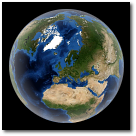
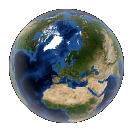
change Theme  map

diff --git a/layerComponent/LayerMap.qml b/layerComponent/LayerMap.qml
@@ -1,8 +1,14 @@
 import QtQuick 2.15
 
 Item {
+	id:_root
 	width: 400
 	height: 100
+	signal itemClicked(string source);
+
+
+
+	property int  selectedIndex : 0
 
 	ListModel {
 		id:_model
@@ -12,15 +18,15 @@ Item {
 		}
 		ListElement {
 			pathimage: "../icons/mapLayer/bluemarble-preview.png"
-			source: "earth/openstreetmap/blumarble.dgml"
+			source: "earth/bluemarble/bluemarble.dgml"
 		}
 		ListElement {
 			pathimage: "../icons/mapLayer/precip-dec-preview.png"
-			source: "earth/openstreetmap/precip-dec.dgml"
+			source: "earth/precip-dec/precip-dec.dgml"
 		}
 		ListElement {
 			pathimage: "../icons/mapLayer/vectorosm-preview.png"
-			source: "earth/openstreetmap/vectorosm.dgml"
+			source: "earth/vectorosm/vectorosm.dgml"
 		}
 
 	}
@@ -33,8 +39,8 @@ Item {
 				 Rectangle{
 					 anchors.fill: parent
 					 radius: 10
-					 border.width: 4
-					 border.color: "#56BAE1"
+					 border.width: 1
+					 border.color: _root.selectedIndex === index ? "#206CC9" : "#56BAE1"
 					 color: "transparent"
 					 z:1
 					 Image {
@@ -43,6 +49,17 @@ Item {
 						 anchors.margins: 4
 						 source: pathimage
 						 fillMode: Image.PreserveAspectFit
+
+						 }
+					 MouseArea{
+						 hoverEnabled: true
+						 anchors.fill: parent
+						 onEntered: parent.color = "#5556BAE1"
+						 onExited: parent.color = "transparent"
+						 onClicked: {
+							 _root.selectedIndex = index
+							 _root.itemClicked(source)
+						 }
 					 }
 				 }
 			 }

diff --git a/layerComponent/LayerItems.qml b/layerComponent/LayerItems.qml
@@ -6,6 +6,8 @@ Item {
     width: 600
     height: 60
     property var loadedObjectLayerMap: null
+    signal mapChanged(string path);
+
     FontLoader {
             id: _Font
             source: "../fonts/Poppins-Regular.ttf"
@@ -17,7 +19,11 @@ Item {
                if (obj === null) {
                    console.log("Error creating object")
                } else {
-                   console.log("Loaded", filename, "at", xpos, ypos)
+                   obj.itemClicked.connect(function (path) {
+
+                        _root.mapChanged(path)
+                                               })
+                   //console.log("Loaded", filename, "at", xpos, ypos)
                }
                return obj
            } else {

diff --git a/Main.qml b/Main.qml
@@ -61,5 +61,9 @@ Window {
         anchors.leftMargin: 10
         anchors.top:parent.top
         anchors.topMargin: 15
+        onMapChanged:function(path){
+
+            marble.mapThemeId = path
+        }
     }
 }
